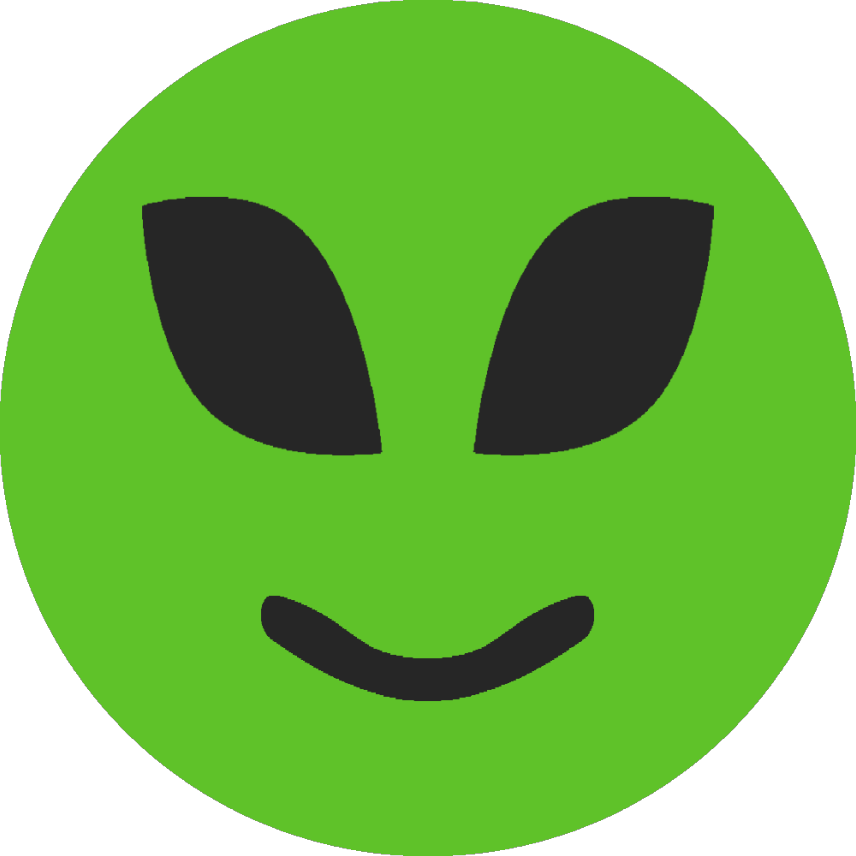
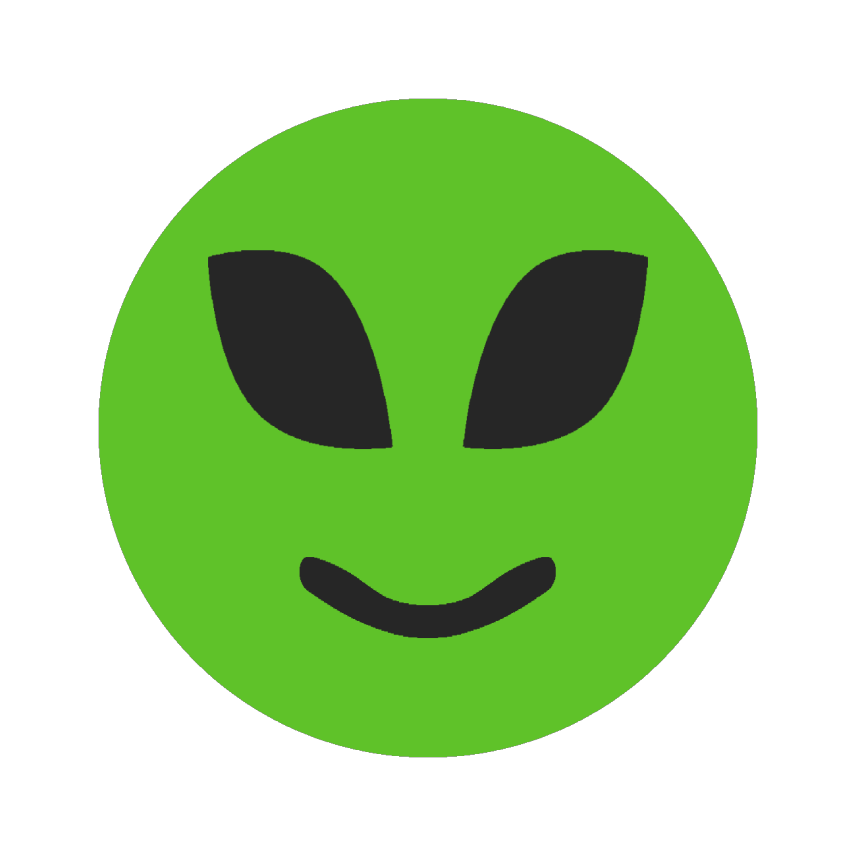
Added more skins

diff --git a/src/pages/login-page/login.html b/src/pages/login-page/login.html
@@ -19,7 +19,7 @@
                 </div>
                 <div id="change-skin-container">
                     <button type="button" class="arrow-button" onclick="changeSkin(-1)"> <img  src="./src/assets/Arrow-Left.png" class="arrow-img" alt="Change Skin" ></button>
-                    <img src="./src/assets/skins/Smiley_Skin.webp" style="width: 150px;" alt="Skin" id="skin-image">
+                    <img src="./src/assets/skins/Smiley_Skin.webp" alt="Skin" id="skin-image">
                     <button type="button" class="arrow-button" onclick="changeSkin(1)"> <img src="./src/assets/Arrow-Right.png" class="arrow-img" alt="Change Skin"> </button> 
                 </div>
                 <button onclick="validateForm()" id="submit-button">Continue</button>

diff --git a/src/pages/login-page/styles.css b/src/pages/login-page/styles.css
@@ -10,7 +10,7 @@ html, body {
     margin: auto;
     padding-left: 15px;
     display: block;
-    width: clamp(160px, 18vw, 270px);
+    width: clamp(180px, 18vw, 270px);
     height: auto;
 }
 
@@ -94,7 +94,9 @@ html, body {
     margin-top: clamp(16px, 4vh, 48px);
     min-height: clamp(72px, 14vh, 160px);
 }
-
+#skin-image{
+    width: 45%;
+}
 .arrow-button{
     background-color: transparent;
     border: none;

diff --git a/src/pages/login-page/login_scripts.js b/src/pages/login-page/login_scripts.js
@@ -6,7 +6,9 @@ let skins = [
     "./src/assets/skins/Smiley_Skin.webp",
     "./src/assets/skins/Alien_Skin.webp",
     "./src/assets/skins/CEO_Skin.webp",
-    "./src/assets/skins/STC_Skin.webp"
+    "./src/assets/skins/STC_Skin.webp",
+    "./src/assets/skins/Nerdy_Skin.webp",
+    "./src/assets/skins/Cowboy_Skin.webp"
 ];
 
 function validateForm() {

diff --git a/src/pages/game-page/styles.css b/src/pages/game-page/styles.css
@@ -198,7 +198,6 @@ html, body {
   border-radius: 50%;
   object-fit: cover;
   margin-bottom: 20px;
-  border: 4px solid gold;
 }
 
 #win-message {
@@ -277,7 +276,6 @@ html, body {
   height: auto;
   border-radius: 50%;
   object-fit: cover;
-  border: 2px solid rgba(0, 0, 0, 0.112);
 }
 
 .waiting-text {
